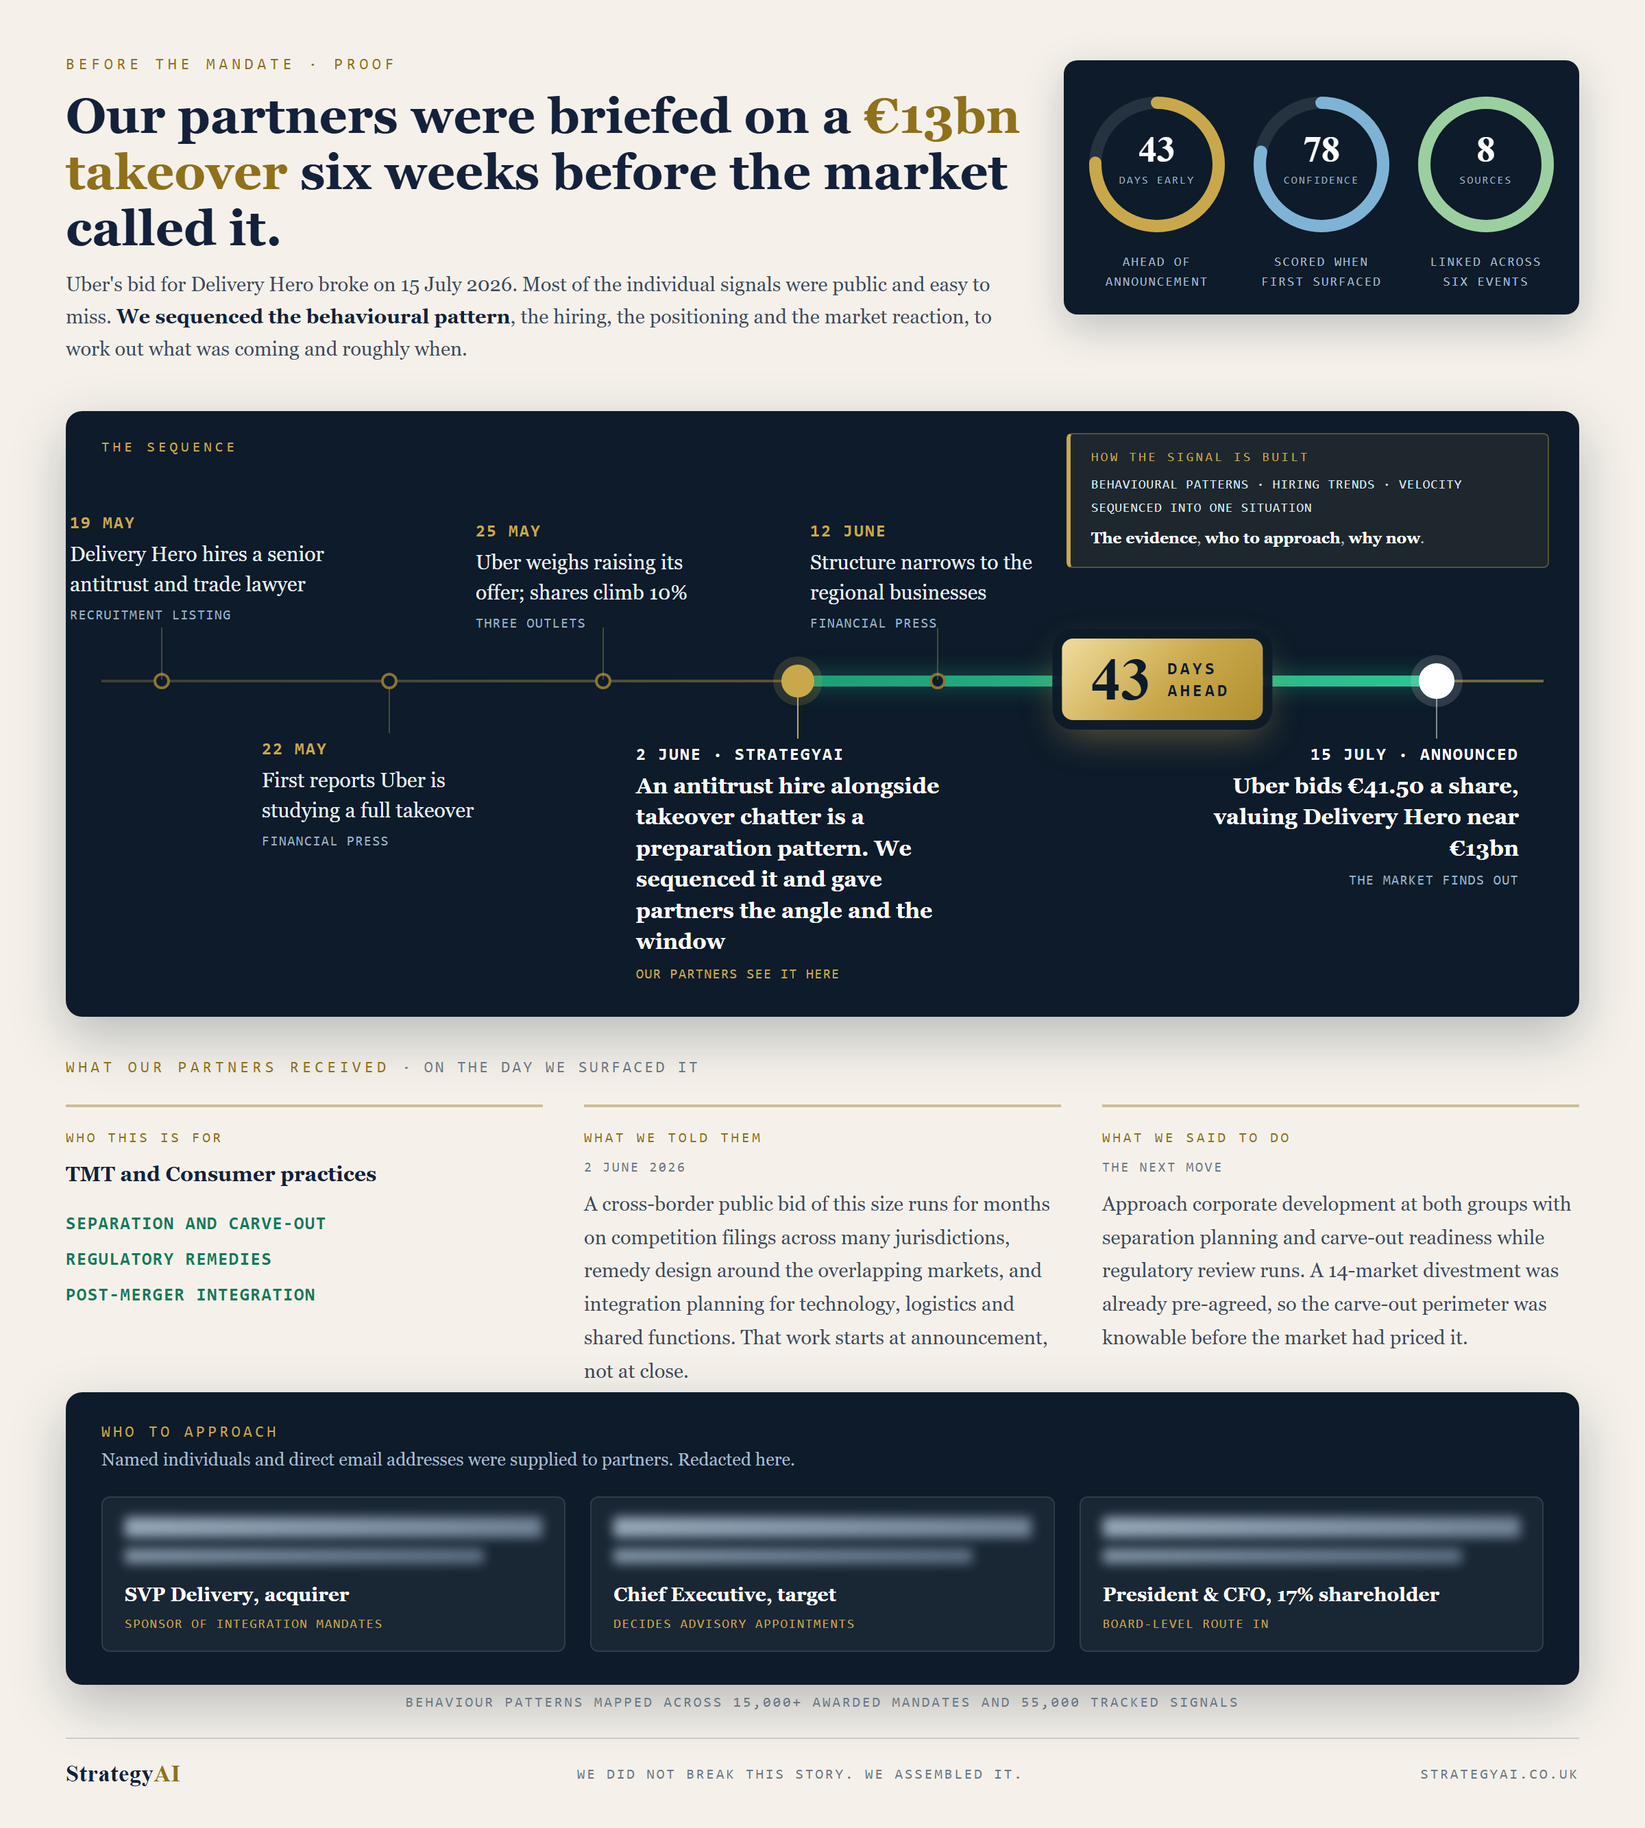
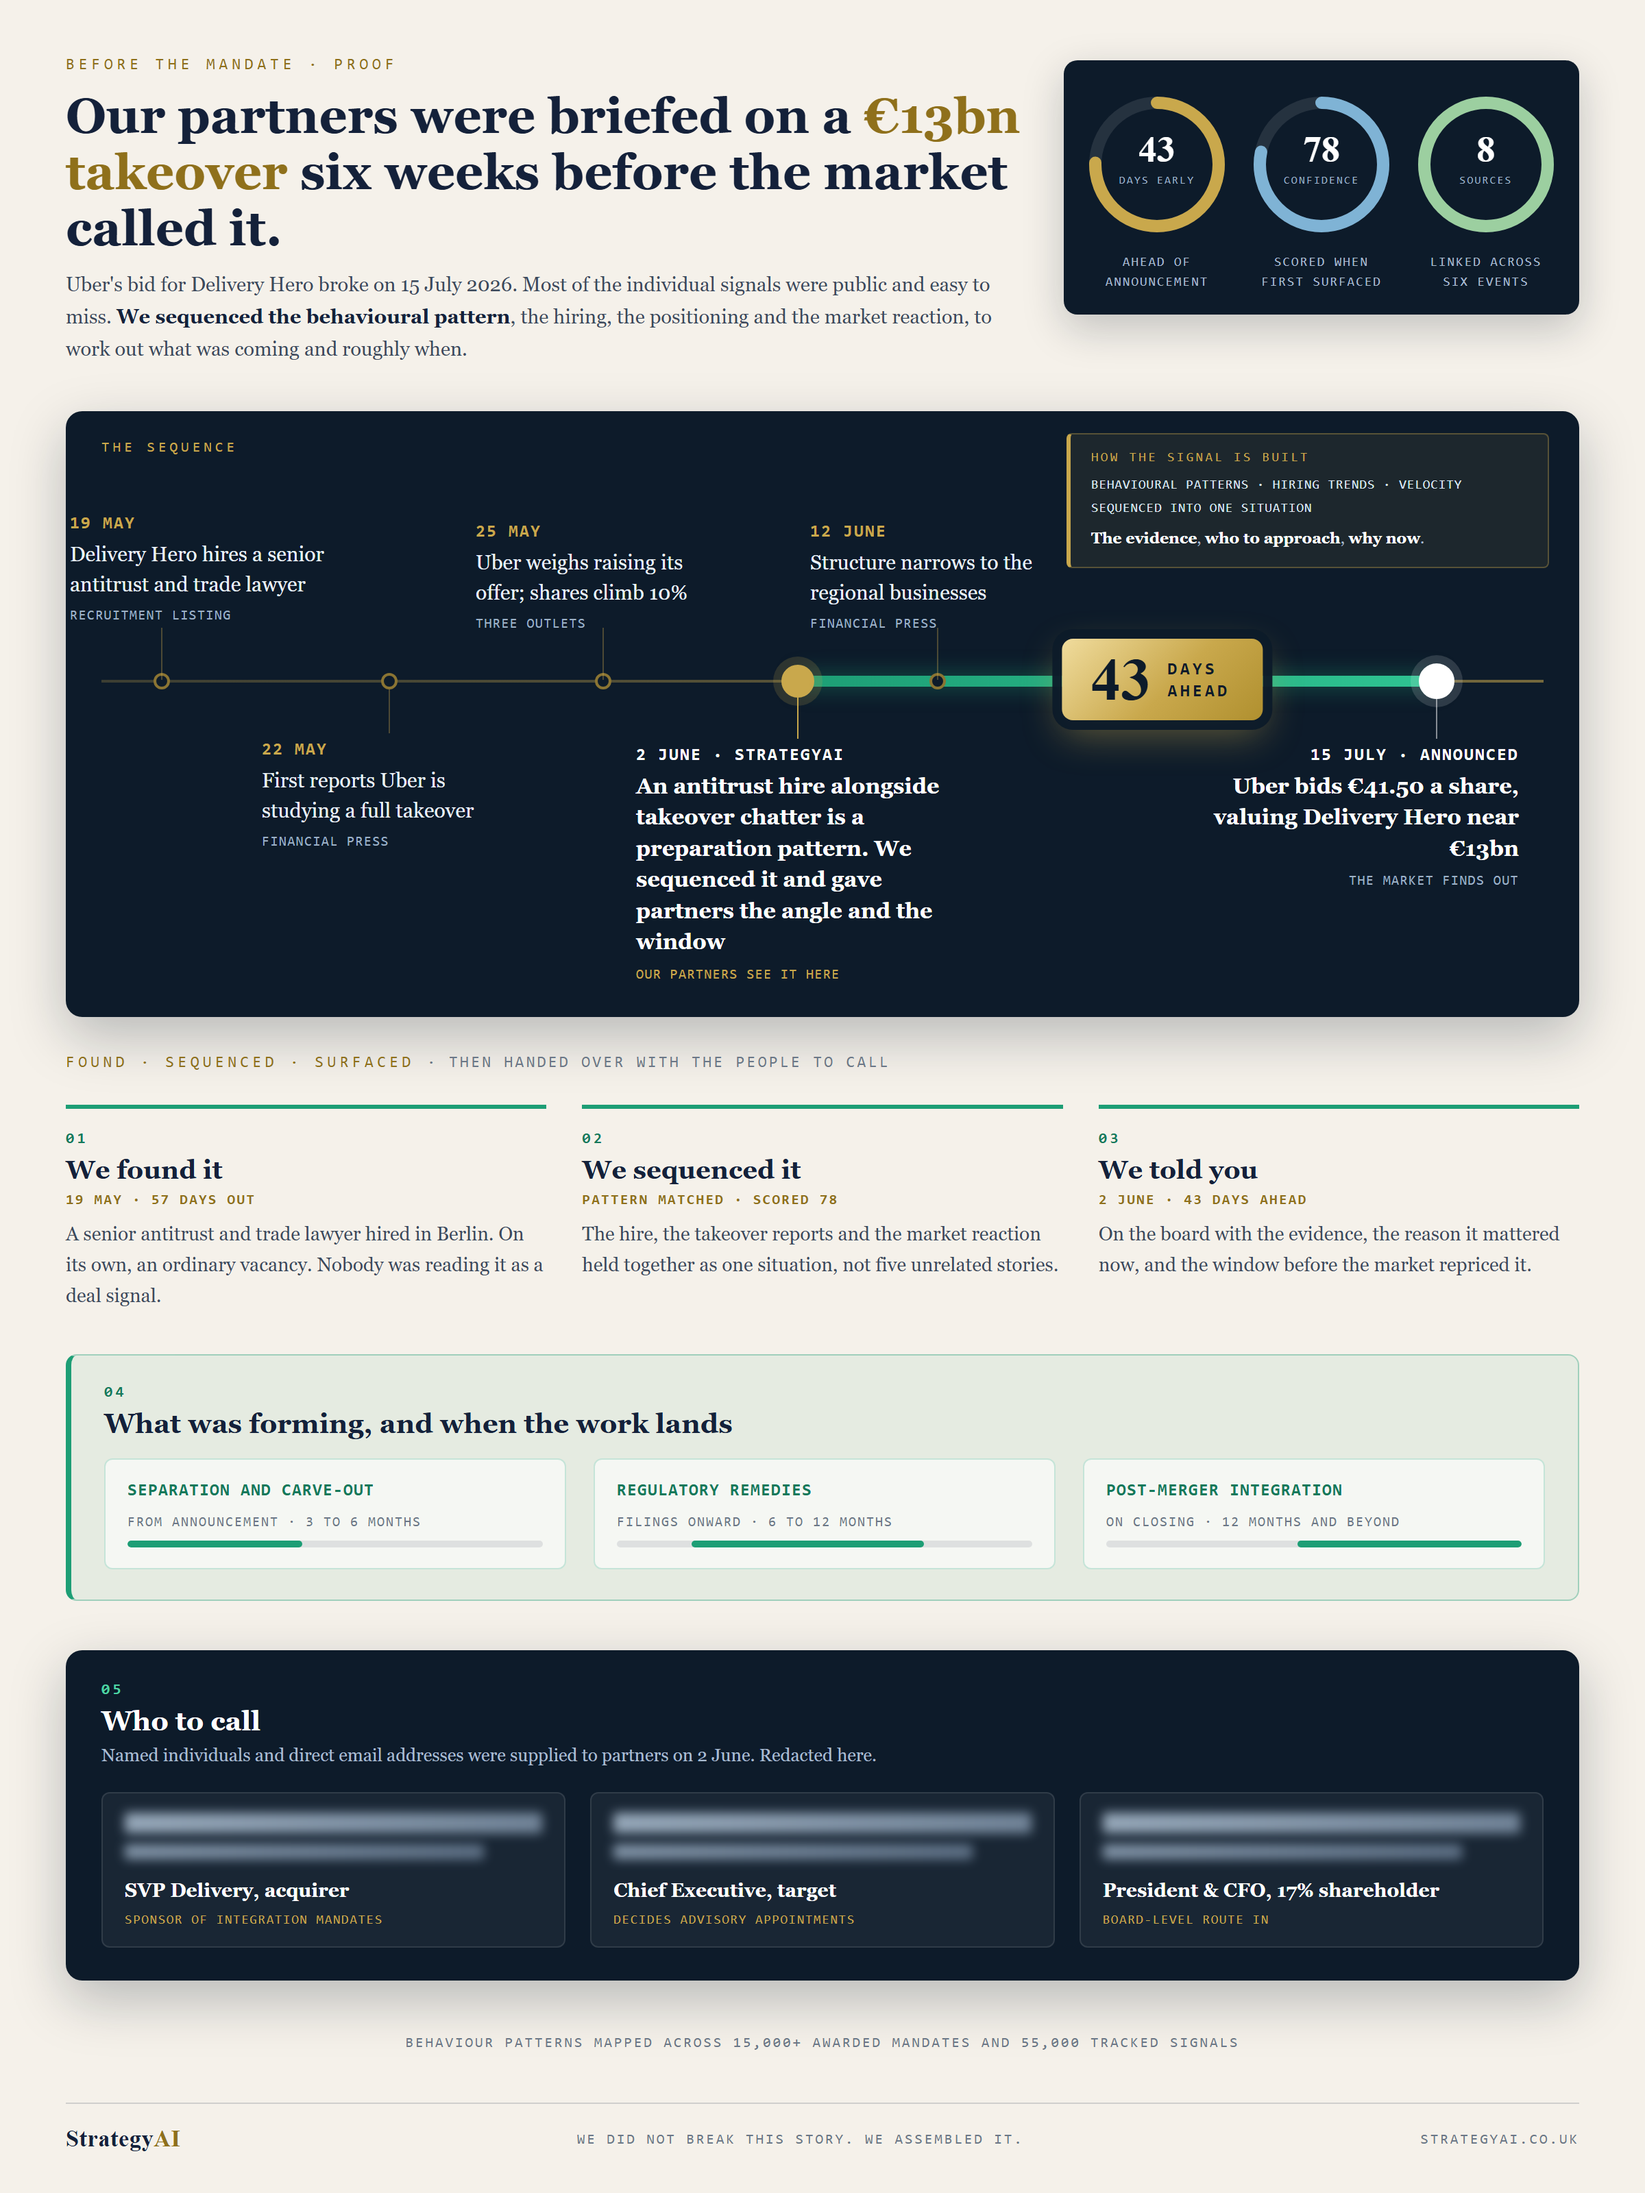
Spell out the arc: found, sequenced, told you, what was forming, who to call
Five numbered steps replace the three unlabelled columns, so the claim is
explicit rather than implied. Step 04 adds the mandate windows with bars
showing when each workstream lands, which is the part a partner buys.

diff --git a/catches/delivery-hero-cream.html b/catches/delivery-hero-cream.html
@@ -10,7 +10,7 @@
   *{box-sizing:border-box}
   body{margin:0;background:#ded8cd;display:flex;justify-content:center;
     font-family:"Libre Baskerville",Georgia,serif}
-  .card{position:relative;width:1200px;height:1334px;flex:0 0 auto;background:var(--cream);
+  .card{position:relative;width:1200px;height:1600px;flex:0 0 auto;background:var(--cream);
     color:var(--ink);overflow:hidden}
 
   /* ---------- head ---------- */
@@ -83,7 +83,7 @@
   .lbl.hero .d{color:#fff}
 
   /* ---------- cream columns ---------- */
-  .banner{position:absolute;left:48px;top:772px;font-family:"DM Mono",monospace;font-size:11.5px;
+  .banner{position:absolute;left:48px;top:768px;font-family:"DM Mono",monospace;font-size:11.5px;
     letter-spacing:.24em;text-transform:uppercase;color:var(--gold-ink);font-weight:500}
   .banner span{color:var(--ink-3);letter-spacing:.15em}
   .cols{position:absolute;left:48px;right:48px;top:806px;display:flex;gap:30px}
@@ -98,11 +98,44 @@
   .col .stamp{font-family:"DM Mono",monospace;font-size:10px;letter-spacing:.13em;
     text-transform:uppercase;color:var(--ink-3);margin-bottom:9px}
 
+
+  /* ---------- the arc: numbered steps ---------- */
+  .arc{position:absolute;left:48px;right:48px;top:806px;display:flex;gap:26px}
+  .step{flex:1;border-top:3px solid var(--green);padding-top:15px}
+  .step .no{font-family:"DM Mono",monospace;font-size:11px;letter-spacing:.2em;color:var(--green-ink);
+    font-weight:700}
+  .step h6{margin:5px 0 4px;font-family:"Playfair Display",Georgia,serif;font-size:19px;
+    font-weight:700;color:var(--ink);line-height:1.2}
+  .step .when{font-family:"DM Mono",monospace;font-size:10.5px;letter-spacing:.11em;
+    text-transform:uppercase;color:var(--gold-ink);margin-bottom:8px;font-weight:600}
+  .step p{margin:0;font-size:14px;line-height:1.62;color:var(--ink-2)}
+
+  /* ---------- mandates forming, with windows ---------- */
+  .forming{position:absolute;left:48px;right:48px;top:988px;border:1px solid rgba(29,158,117,.35);
+    border-left:4px solid var(--green);border-radius:8px;background:rgba(29,158,117,.07);
+    padding:20px 24px 22px}
+  .forming .no{font-family:"DM Mono",monospace;font-size:11px;letter-spacing:.2em;
+    color:var(--green-ink);font-weight:700}
+  .forming h6{margin:5px 0 14px;font-family:"Playfair Display",Georgia,serif;font-size:20px;
+    font-weight:700;color:var(--ink)}
+  .wins{display:flex;gap:20px}
+  .win{flex:1;background:rgba(255,255,255,.6);border:1px solid rgba(29,158,117,.22);
+    border-radius:6px;padding:13px 16px 15px}
+  .win .name{font-family:"DM Mono",monospace;font-size:12.5px;letter-spacing:.05em;
+    text-transform:uppercase;color:var(--green-ink);font-weight:700;line-height:1.4}
+  .win .window{font-family:"DM Mono",monospace;font-size:10px;letter-spacing:.1em;
+    text-transform:uppercase;color:var(--ink-3);margin-top:9px}
+  .win .bar{height:5px;border-radius:3px;background:rgba(20,33,58,.1);margin-top:8px;
+    position:relative;overflow:hidden}
+  .win .bar i{position:absolute;top:0;bottom:0;border-radius:3px;background:var(--green)}
+
   /* ---------- navy approach tile ---------- */
-  .approach{position:absolute;left:48px;right:48px;top:1016px;background:var(--navy);
+  .approach{position:absolute;left:48px;right:48px;top:1204px;background:var(--navy);
     border-radius:12px;padding:22px 26px 24px;box-shadow:0 14px 40px rgba(13,27,42,.26)}
-  .approach h5{margin:0 0 4px;font-family:"DM Mono",monospace;font-size:11.5px;letter-spacing:.2em;
-    text-transform:uppercase;color:var(--gold);font-weight:500}
+  .approach .no{font-family:"DM Mono",monospace;font-size:11px;letter-spacing:.2em;color:#4fd3a4;
+    font-weight:700}
+  .approach h5{margin:5px 0 4px;font-family:"Playfair Display",Georgia,serif;font-size:20px;
+    letter-spacing:0;text-transform:none;color:#fff;font-weight:700}
   .approach .lead{font-size:13px;color:var(--on-dark-2);margin:0 0 17px;line-height:1.5}
   .people{display:flex;gap:18px}
   .person{flex:1;background:rgba(255,255,255,.05);border:1px solid rgba(255,255,255,.1);
@@ -115,7 +148,7 @@
   .person .org{font-family:"DM Mono",monospace;font-size:9.5px;letter-spacing:.09em;
     text-transform:uppercase;color:var(--gold);margin-top:6px}
 
-  .basis{position:absolute;left:48px;right:48px;bottom:86px;text-align:center;
+  .basis{position:absolute;left:48px;right:48px;bottom:104px;text-align:center;
     font-family:"DM Mono",monospace;font-size:10.5px;letter-spacing:.14em;text-transform:uppercase;
     color:var(--ink-3)}
   footer{position:absolute;left:48px;right:48px;bottom:30px;display:flex;justify-content:space-between;
@@ -225,32 +258,54 @@
     </div>
   </div>
 
-  <div class="banner">What our partners received <span>· on the day we surfaced it</span></div>
-  <div class="cols">
-    <div class="col">
-      <h5>Who this is for</h5>
-      <div class="who">TMT and Consumer practices</div>
-      <div class="whosub">Separation and carve-out<br>Regulatory remedies<br>Post-merger integration</div>
+  <div class="banner">Found · sequenced · surfaced <span>· then handed over with the people to call</span></div>
+  <div class="arc">
+    <div class="step">
+      <div class="no">01</div>
+      <h6>We found it</h6>
+      <div class="when">19 May · 57 days out</div>
+      <p>A senior antitrust and trade lawyer hired in Berlin. On its own, an ordinary vacancy. Nobody was reading it as a deal signal.</p>
     </div>
-    <div class="col">
-      <h5>What we told them</h5>
-      <div class="stamp">2 June 2026</div>
-      <p>A cross-border public bid of this size runs for months on competition filings across many
-         jurisdictions, remedy design around the overlapping markets, and integration planning for
-         technology, logistics and shared functions. That work starts at announcement, not at close.</p>
+    <div class="step">
+      <div class="no">02</div>
+      <h6>We sequenced it</h6>
+      <div class="when">Pattern matched · scored 78</div>
+      <p>The hire, the takeover reports and the market reaction held together as one situation, not five unrelated stories.</p>
     </div>
-    <div class="col">
-      <h5>What we said to do</h5>
-      <div class="stamp">The next move</div>
-      <p>Approach corporate development at both groups with separation planning and carve-out
-         readiness while regulatory review runs. A 14-market divestment was already pre-agreed, so
-         the carve-out perimeter was knowable before the market had priced it.</p>
+    <div class="step">
+      <div class="no">03</div>
+      <h6>We told you</h6>
+      <div class="when">2 June · 43 days ahead</div>
+      <p>On the board with the evidence, the reason it mattered now, and the window before the market repriced it.</p>
+    </div>
+  </div>
+
+  <div class="forming">
+    <div class="no">04</div>
+    <h6>What was forming, and when the work lands</h6>
+    <div class="wins">
+      <div class="win">
+        <div class="name">Separation and carve-out</div>
+        <div class="window">From announcement · 3 to 6 months</div>
+        <div class="bar"><i style="left:0;width:42%"></i></div>
+      </div>
+      <div class="win">
+        <div class="name">Regulatory remedies</div>
+        <div class="window">Filings onward · 6 to 12 months</div>
+        <div class="bar"><i style="left:18%;width:56%"></i></div>
+      </div>
+      <div class="win">
+        <div class="name">Post-merger integration</div>
+        <div class="window">On closing · 12 months and beyond</div>
+        <div class="bar"><i style="left:46%;width:54%"></i></div>
+      </div>
     </div>
   </div>
 
   <div class="approach">
-    <h5>Who to approach</h5>
-    <p class="lead">Named individuals and direct email addresses were supplied to partners. Redacted here.</p>
+    <div class="no">05</div>
+    <h5>Who to call</h5>
+    <p class="lead">Named individuals and direct email addresses were supplied to partners on 2 June. Redacted here.</p>
     <div class="people">
       <div class="person"><div class="redact"></div><div class="redact e"></div>
         <div class="role">SVP Delivery, acquirer</div><div class="org">Sponsor of integration mandates</div></div>
